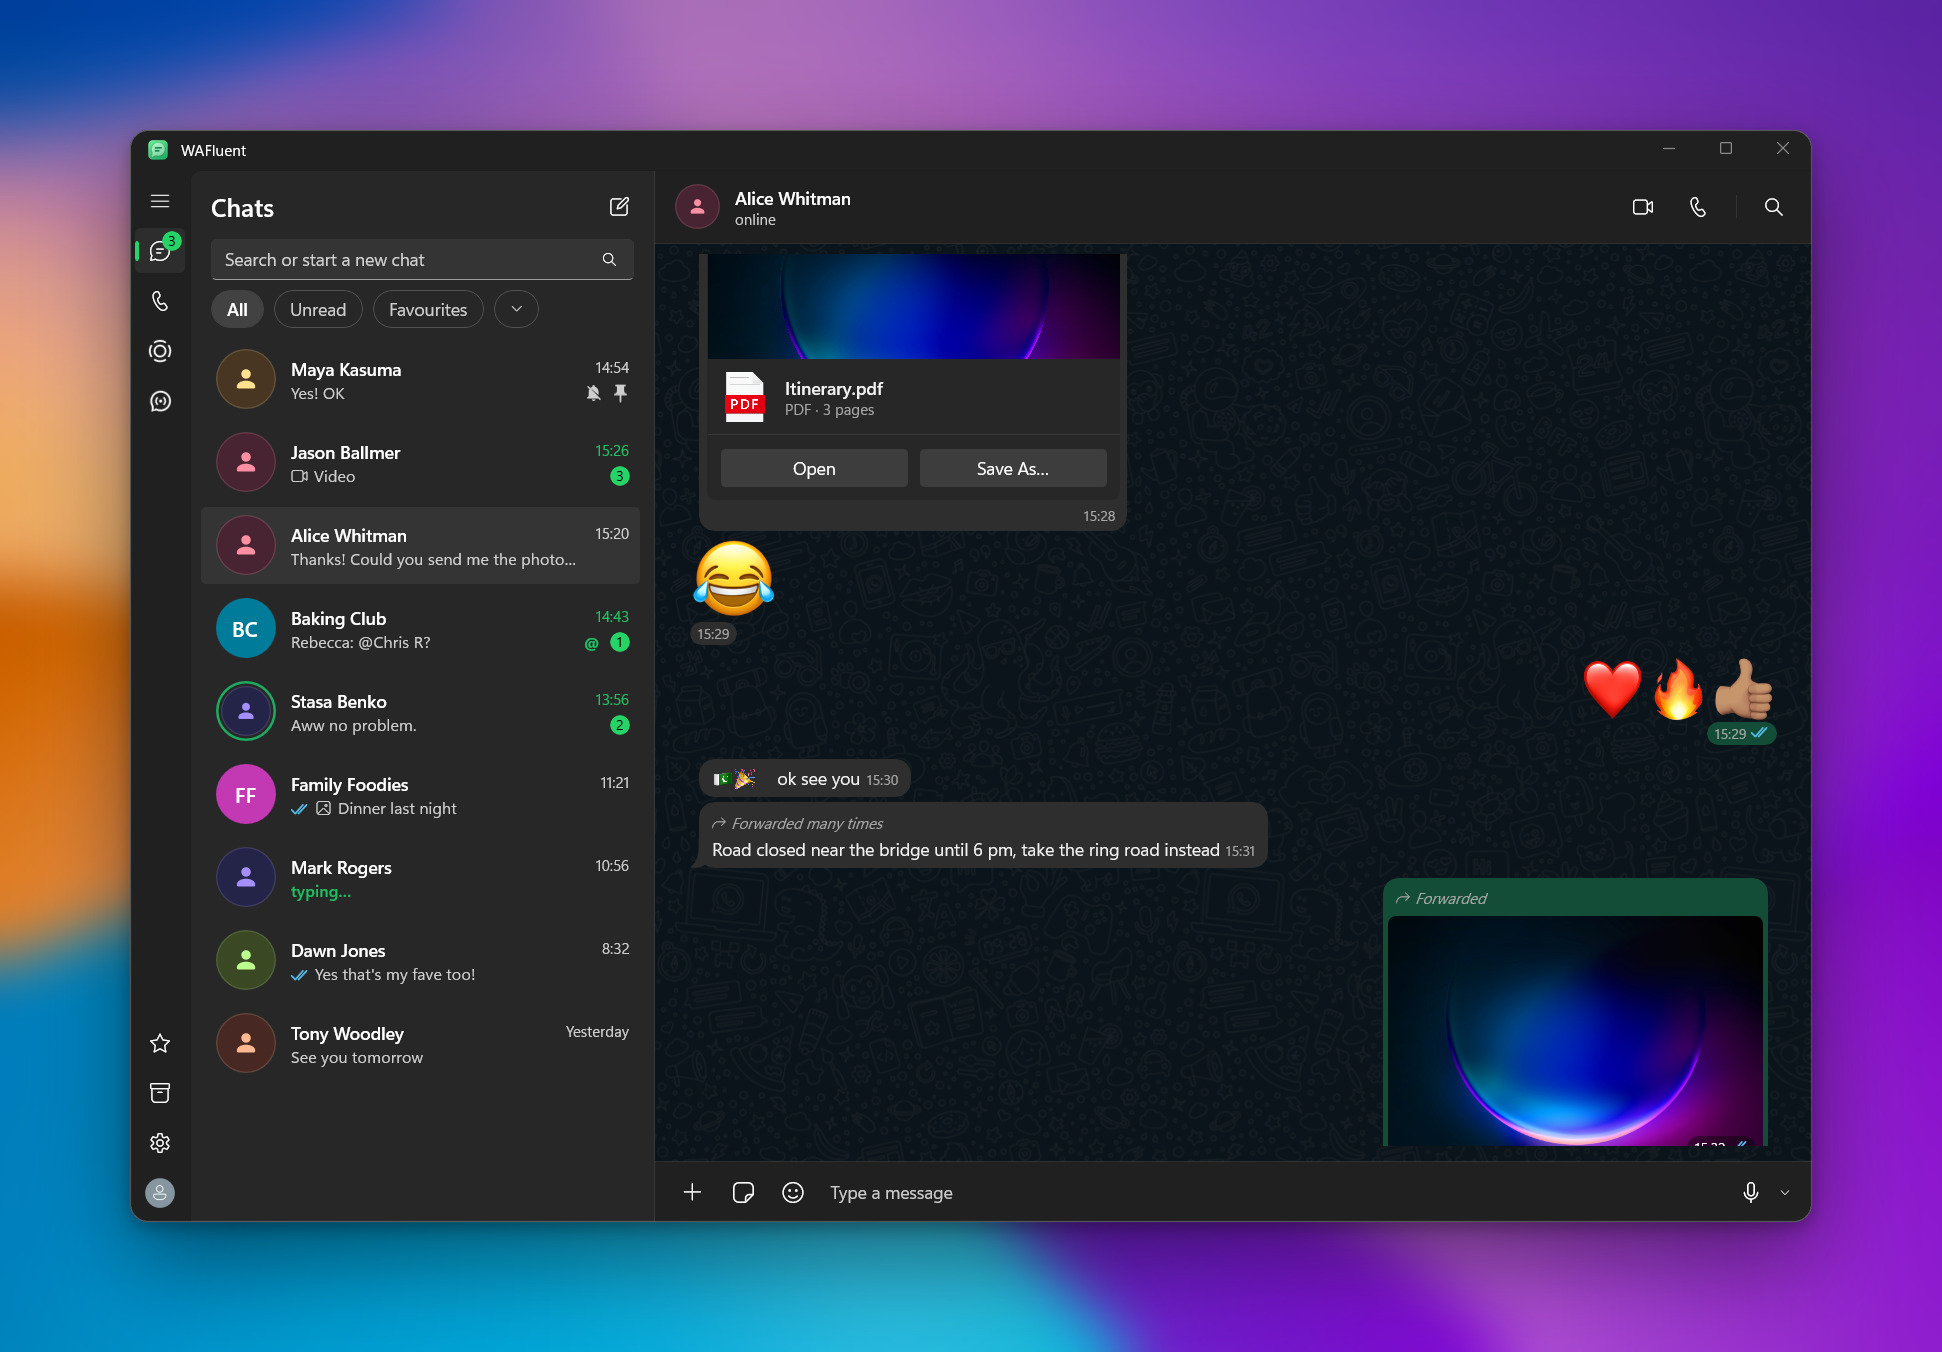
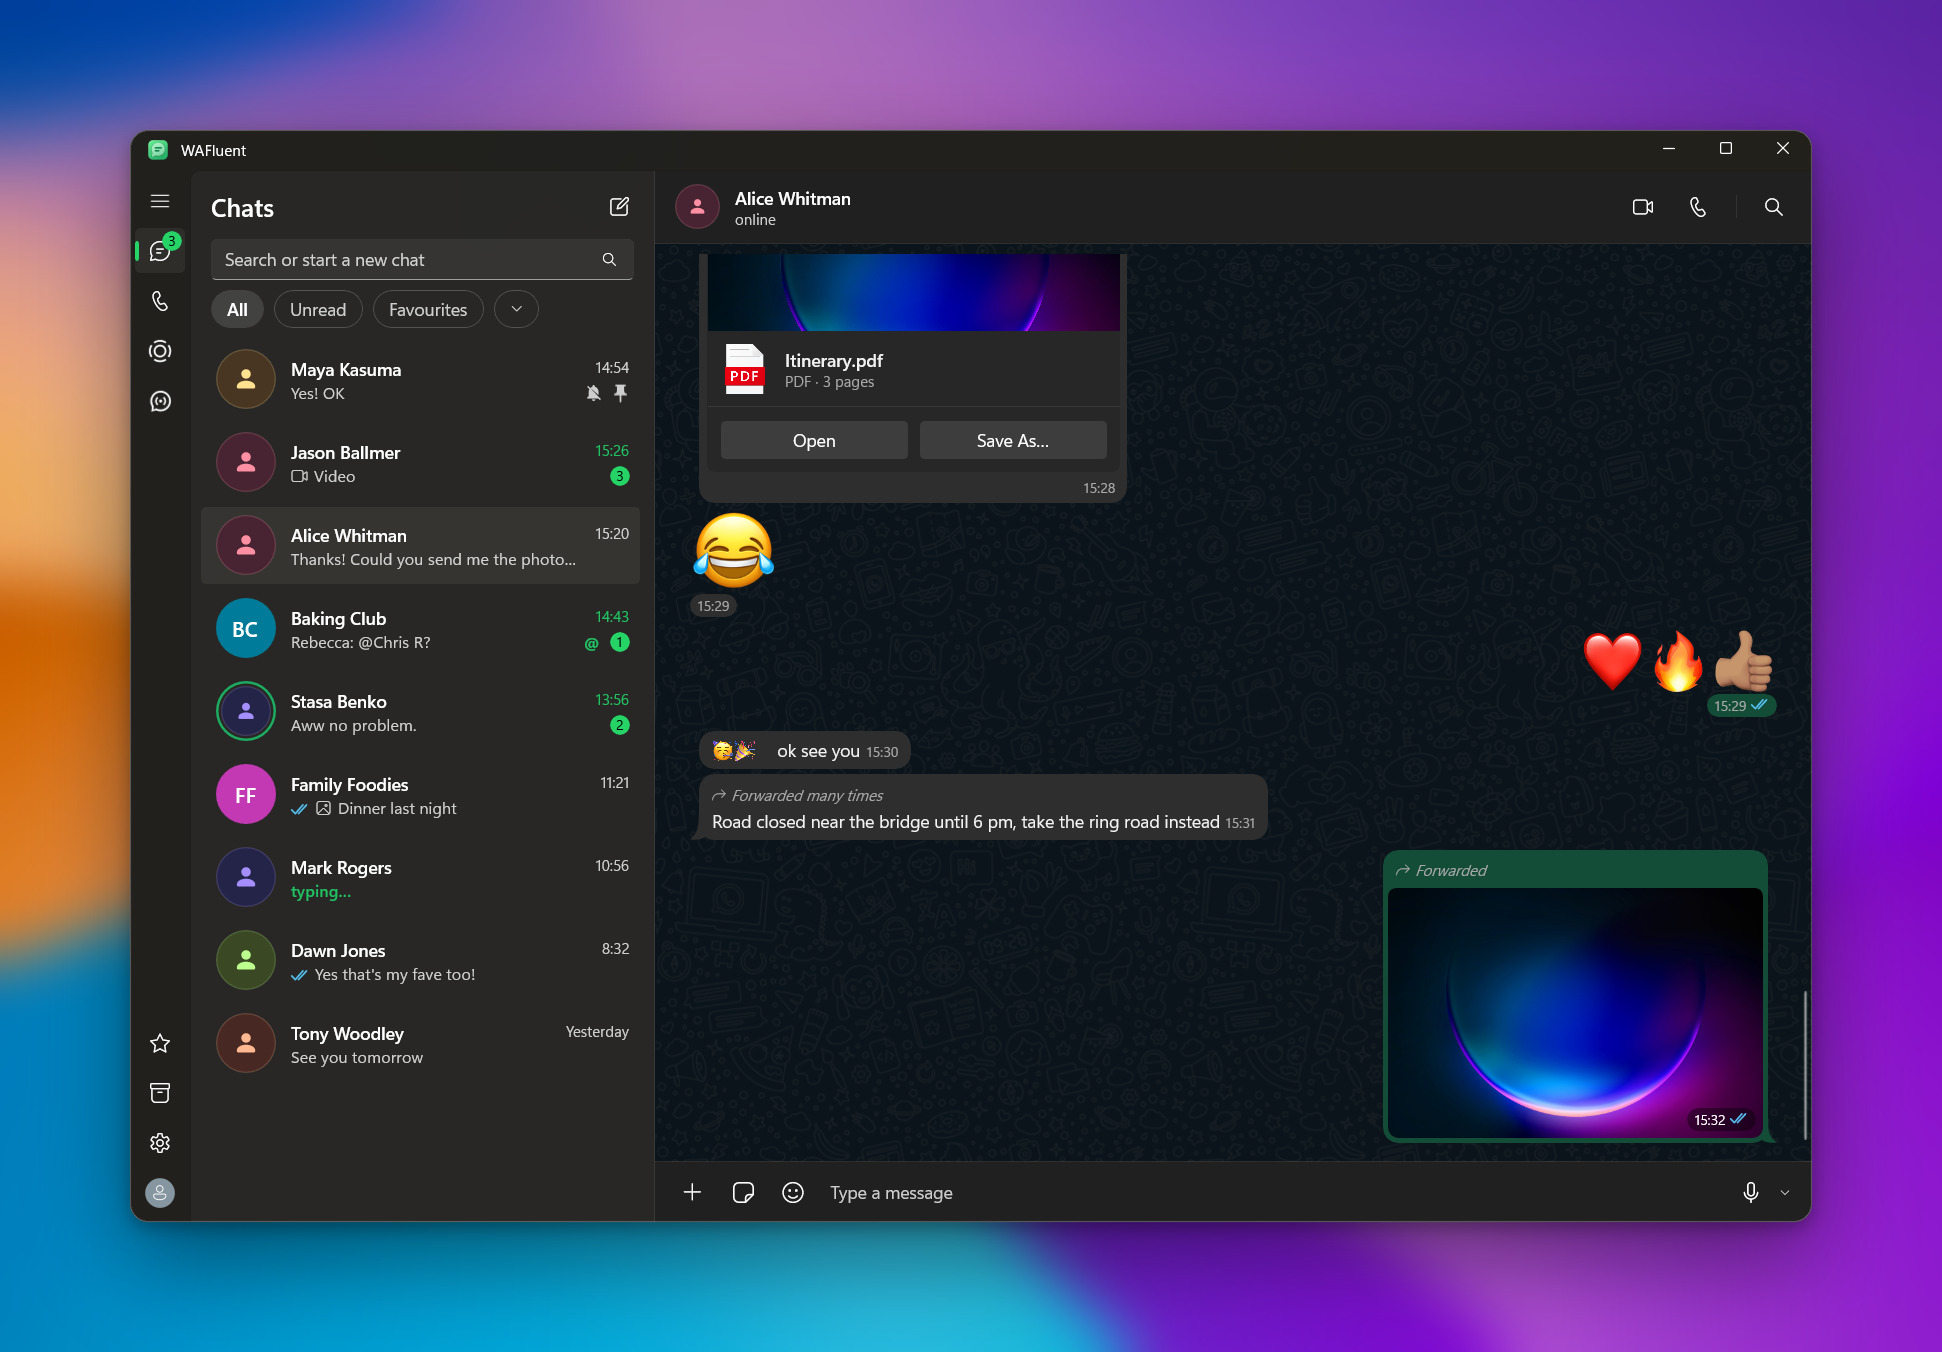
The sample data names no country (channels, a location, a contact card, an emoji), and the README's pictures are retaken with it; a Status picture fills the table's empty cell

diff --git a/src/ViewModels/MainViewModel.Channels.cs b/src/ViewModels/MainViewModel.Channels.cs
@@ -85,13 +85,13 @@ public sealed partial class MainViewModel
         if (Channels.Count == 0 && SuggestedChannels.Count == 0)
         {
             SetChannels([new ChannelDto("sample-1@newsletter", "City News", "", 219_000, false, null, true, false, DateTimeOffset.Now.AddHours(-20).ToUnixTimeSeconds(),
-                                        "Fuel prices increased from midnight", 2)]);
+                                        "Heavy rain expected tonight", 2)]);
             SuggestedChannels =
             [
-                new ChannelDto("sample-2@newsletter", "World Scholarship Opportunities", "", 171_000, false, null, false, false, 0, "", 0),
-                new ChannelDto("sample-3@newsletter", "Daad Scholarship", "", 172_000, true, null, false, false, 0, "", 0),
+                new ChannelDto("sample-2@newsletter", "Space Daily", "", 171_000, false, null, false, false, 0, "", 0),
+                new ChannelDto("sample-3@newsletter", "Design Weekly", "", 172_000, true, null, false, false, 0, "", 0),
                 new ChannelDto("sample-4@newsletter", "WhatsApp", "", 234_200_000, true, null, false, false, 0, "", 0),
-                new ChannelDto("sample-5@newsletter", "Scholarships Corner", "", 119_000, false, null, false, false, 0, "", 0),
+                new ChannelDto("sample-5@newsletter", "Recipe Corner", "", 119_000, false, null, false, false, 0, "", 0),
             ];
             foreach (var channel in Channels.Concat(SuggestedChannels)) _channelInfo[channel.Id] = channel;
         }
@@ -153,13 +153,13 @@ public sealed partial class MainViewModel
         {
             string[] posts =
             [
-                "The second round of talks will be held tomorrow at 2 PM. The discussions were held in a positive atmosphere.",
-                "Pakistan vs India T20 for the gold medal in the Asian Games cricket final is tomorrow at 9:30 AM",
-                "Fuel prices increased from midnight\n\npetrol increased by 2.10\ndiesel increased by 0.30",
+                "The new riverside park opens to the public this Saturday at 10 AM. Entry is free all weekend.",
+                "The city marathon is this Sunday: the main roads close from 6 AM to noon, so plan your route.",
+                "Heavy rain expected tonight\n\nAvoid the low roads near the river\nTrams run every 20 minutes",
             ];
             foreach (var (text, i) in posts.Select((t, i) => (t, i)))
-                chat.Messages.Add(new Message { Id = $"sample-post-{i}", IsPost = true, Text = text, Time = $"{6 + i * 2}:1{i} pm", ReactionSummary = i < 2 ? "😂❤🙏👍 " + (430 - i * 190) : "", ForwardCount = i < 2 ? (135 - i * 97).ToString() : "",
-                                                PostReactions = i < 2 ? [("😂", 311 - i * 150), ("❤", 73), ("🙏", 33 - i * 20), ("👍", 13 - i * 10)] : [] });
+                chat.Messages.Add(new Message { Id = $"sample-post-{i}", IsPost = true, Text = text, Time = $"{6 + i * 2}:1{i} pm", ReactionSummary = i < 2 ? "👍❤🙏😮 " + (430 - i * 190) : "", ForwardCount = i < 2 ? (135 - i * 97).ToString() : "",
+                                                PostReactions = i < 2 ? [("👍", 311 - i * 150), ("❤", 73), ("🙏", 33 - i * 20), ("😮", 13 - i * 10)] : [] });
             chat.MessagesLoaded = true;
         }
         if (Channels.Any(c => c.Id == channel.Id && c.Unread > 0)) SetChannels(Channels.Select(c => c.Id == channel.Id ? c with { Unread = 0 } : c).ToList());

diff --git a/src/Models/SampleData.cs b/src/Models/SampleData.cs
@@ -83,8 +83,8 @@ public static class SampleData
                 new Message { Id = NewId(), Kind = MessageKind.Video, Time = "15:23", Seconds = 32, HasMedia = true, Thumb = Preview(Picture2), MediaWidth = 300, MediaHeight = 200, Text = "The waterfall!" },
                 new Message { Id = NewId(), Kind = MessageKind.Video, Time = "15:23", IsGif = true, HasMedia = true, MediaPath = SampleGif, Thumb = Preview(Picture), MediaWidth = 220, MediaHeight = 160, IsOutgoing = true, Delivery = Delivery.Read },
                 new Message { Id = NewId(), Kind = MessageKind.Location, Time = "15:24", Thumb = Preview(Picture2), MediaWidth = 300, MediaHeight = 150,
-                              Latitude = 31.5204, Longitude = 74.3587, PlaceName = "Lahore Fort", PlaceAddress = "Fort Rd, Walled City of Lahore" },
-                new Message { Id = NewId(), Kind = MessageKind.Contact, Time = "15:25", Text = "Sara Khan", Contacts = [new ContactCard("Sara Khan", ["+92 300 1234567"])] },
+                              Latitude = 51.5055, Longitude = -0.0754, PlaceName = "Tower Bridge", PlaceAddress = "Tower Bridge Rd, London" },
+                new Message { Id = NewId(), Kind = MessageKind.Contact, Time = "15:25", Text = "Sara Miller", Contacts = [new ContactCard("Sara Miller", ["+44 20 7946 0123"])] },
                 Poll("Where should we eat on Sunday?", "15:26", ("Monal", ["Alice Whitman", "You"]), ("Cafe Aylanto", ["Sam"]), ("Home — I'll cook", [])),
                 In("Mail me the tickets at alice.whitman@example.com or check www.example.com/tickets", "15:26"),
                 new Message { Id = NewId(), Kind = MessageKind.Location, Time = "15:26", Thumb = Preview(Picture2), MediaWidth = 300, MediaHeight = 150,
@@ -102,7 +102,7 @@ public static class SampleData
                 new Message { Id = NewId(), Kind = MessageKind.File, FileName = "Itinerary.pdf", FileDetails = "PDF", Pages = 3, Time = "15:28", Thumb = Preview(Picture2) },
                 In("😂", "15:29"),
                 Out("❤🔥👍🏽", "15:29"),
-                In("🇵🇰🎉 ok see you", "15:30"),
+                In("🥳🎉 ok see you", "15:30"),
                 new Message { Id = NewId(), Text = "Road closed near the bridge until 6 pm, take the ring road instead", Time = "15:31", Forwarded = 6 },
                 new Message { Id = NewId(), Kind = MessageKind.Image, Time = "15:32", IsOutgoing = true, Delivery = Delivery.Read, Forwarded = 1,
                               HasMedia = true, MediaPath = Picture2, MediaWidth = 300, MediaHeight = 200 }),

diff --git a/src/MainWindow.Calls.cs b/src/MainWindow.Calls.cs
@@ -260,7 +260,7 @@ public sealed partial class MainWindow
                     switch (test)
                     {
                         case "calls-info": CallsList.SelectedIndex = 1; break;
-                        case "calls-number": ShowCallsPage(CallsPage.Number); CallNumberBox.Text = "+92 300 1234567"; break;
+                        case "calls-number": ShowCallsPage(CallsPage.Number); CallNumberBox.Text = "+44 20 7946 0123"; break;
                         case "calls-new": ShowCallsPage(CallsPage.NewCall); break;
                         case "calls-addfav": OpenAddFavourites(fromFavourites: false); await Task.Delay(300); CallsPickList.SelectRange(new Microsoft.UI.Xaml.Data.ItemIndexRange(0, 2)); break;
                         case "calls-fav": FavouritesEdit.IsChecked = true; ShowCallsPage(CallsPage.Favourites); break;

diff --git a/src/MainWindow.xaml.cs b/src/MainWindow.xaml.cs
@@ -889,7 +889,7 @@ public sealed partial class MainWindow : Window
                 {
                     case "newchat-number":
                         NewChatDialpad_Click(this, new RoutedEventArgs());
-                        NumberBox.Text = "+92 300 1234567";
+                        NumberBox.Text = "+44 20 7946 0123";
                         break;
                     case "newchat-contact":
                         NewContact_Click(this, new RoutedEventArgs());

diff --git a/README.md b/README.md
@@ -4,12 +4,11 @@ A native WinUI 3 WhatsApp client for Windows 11 — Fluent design, Mica, light/d
 
 ![WAFluent with a chat open, dark theme](docs/screenshots/chat-dark.jpg)
 
-| | |
+| Light theme | Calls |
 |---|---|
 | ![Light theme](docs/screenshots/chat-light.jpg) | ![Calls: favourites, recent calls and a contact's call history](docs/screenshots/calls.jpg) |
-| Light theme | Calls |
-| ![A channel's posts with reactions and forward counts](docs/screenshots/channels.jpg) | |
-| Channels | |
+| **Channels** | **Status** |
+| ![A channel's posts with reactions and forward counts](docs/screenshots/channels.jpg) | ![Status: your contacts' updates](docs/screenshots/status.jpg) |
 
 <sub>Screenshots show the app's built-in sample chats (`--sample`), not a real account.</sub>
 
